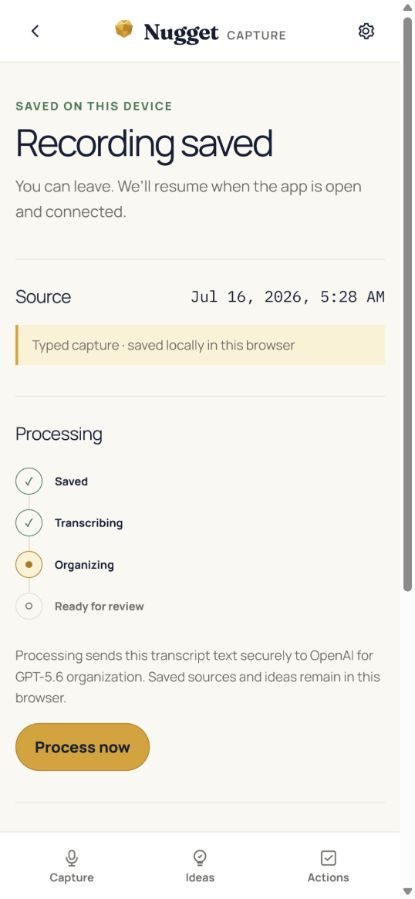
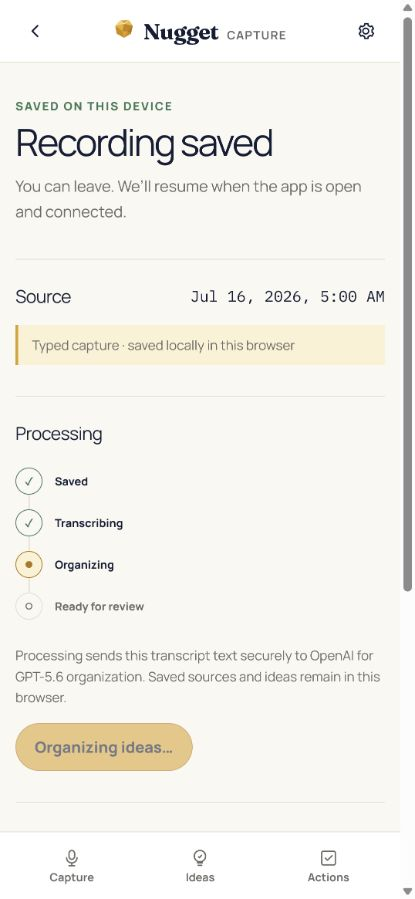
docs: prove synthetic mobile review flow

diff --git a/docs/qa/sprint-3-mobile-checklist.md b/docs/qa/sprint-3-mobile-checklist.md
@@ -24,6 +24,7 @@ Automated evidence does not substitute for a real-phone result where the checkli
 | Independent Task 5 review | Pass | Commits `af2c744`, `494d90e`, and `3b64ad9` were independently reviewed. The initial modal-retry finding was fixed in `3b64ad9`, and re-review approved the result. |
 | In-app mobile viewport | Pass | Sol verified the local app at 430 x 932 using `http://127.0.0.1:3011`. The Capture home put one-tap Record first and showed the zero-review queue link, typed fallback, recent captures, and persistent bottom navigation. `/ideas` showed the honest empty-library state with persistent navigation. Final screenshots were then recaptured from the production build server using `next start` at `http://127.0.0.1:3012`, without development controls. |
 | Synthetic typed save and reload | Pass | Sol saved a synthetic 369-character typed ramble. The app navigated to `/capture/47190cef-001c-46bf-835a-be162378c850`, displayed Transcript Version 1, the processing timeline, and the cloud disclosure. A full reload preserved the same capture and transcript, with no console errors observed. |
+| Synthetic multi-idea browser flow | Pass | On the production build at 430 x 932, a temporary local-only seed harness created fixed QA-prefixed records without live provider use. Sol verified a true `organizing` state, three draft ideas, independent edit persistence across Next/Previous, an exact source quote, discard-one/confirm-two, the completed review state, and two independent confirmed records in Ideas. The harness was removed before the final build and is not committed. |
 | Real phone and HTTPS preview | Blocked | No real phone connected to an HTTPS-capable deployed preview was available during the overnight run. Plain LAN HTTP is not sufficient evidence for mobile `getUserMedia`. |
 | Microphone authority | Blocked | Microphone acceptance requires explicit permission confirmation and a supported secure browser context. That confirmation was unavailable for this documentation pass. |
 | Live GPT/OpenAI processing | Blocked | No live provider run was performed for Sprint 3. Overnight API usage remains $0. Deterministic and mocked processing checks do not prove a live GPT-5.6 flow. |
@@ -53,9 +54,9 @@ Automated evidence does not substitute for a real-phone result where the checkli
 | Automatic processing after consent | Blocked | The consent and ordering UI is covered automatically, but no live OpenAI call was made. API usage remains $0. |
 | Manual Process now after consent | Blocked | Sol verified that Process now opened the explicit **Send for cloud processing?** dialog and that Cancel closed it without sending content. Sending after consent and completing a live provider run were not performed; API usage remains $0. |
 | App hidden during processing and resumed when visible | Not run | Automated visibility/resume listeners pass. A completed browser lifecycle observation has not yet been supplied. |
-| Multi-idea review and independent editing | Not run | Automated Task 5 tests pass for three candidates and edit persistence across next/back. Awaiting Sol's mobile browser observation. |
-| Source excerpt accuracy | Not run | Automated form tests preserve exact stored quotes and render transcript content as text. Awaiting comparison against a visible sample capture. |
-| Discard one idea and confirm two | Not run | Transactional discard and multi-confirmation paths pass automated tests. Awaiting the manual three-idea browser flow. |
+| Multi-idea review and independent editing | Pass | The synthetic production-browser flow rendered **3 ideas found**; an edited first title remained intact after Next and Previous navigation. |
+| Source excerpt accuracy | Pass | Expanding **View source excerpt** displayed the exact seeded transcript quote for the current explicit summary. |
+| Discard one idea and confirm two | Pass | The real discard modal removed the first draft, review advanced to **1 of 2**, and **Confirm all ready ideas (2)** completed with **2 ideas added to your library**. Ideas then listed the two independent confirmed records with category, summary, and source links. |
 | Repeated confirmation does not duplicate actions | Not run | Automated repository/service tests pass. Awaiting a manual visible Actions/library confirmation once the downstream surface is available. |
 | Keyboard focus and screen-reader labels | Not run | Automated tests cover control names, modal focus, and retry focus. No manual screen-reader or keyboard-only audit has been supplied. |
 | Reduced-motion state | Not run | The global reduced-motion CSS fallback exists. No browser emulation or physical-device observation has been supplied. |
@@ -75,20 +76,20 @@ Automated evidence does not substitute for a real-phone result where the checkli
 | Multiple ideas confirm independently; discards and failures preserve other work | Pass | Task 5 focused tests and transactional service tests pass; independent review approved the final recovery behavior. |
 | A real phone completes capture through confirmation | Blocked | No real phone on an HTTPS-capable preview was available overnight. This remains a Sprint 3 exit-gate blocker. |
 | Full `npm run check` passes | Pass | Sol reported 42 test files / 292 tests, typecheck, lint, and production build passing. |
-| Sprint 3 evidence row is complete | Pass | The ledger records verified automation, browser QA, two confirmed assets, two unavailable assets, and all remaining blockers without claiming the Sprint exit gate is fully satisfied. |
+| Sprint 3 evidence row is complete | Pass | The ledger records verified automation, browser QA, three confirmed assets, one unavailable asset, and all remaining blockers without claiming the Sprint exit gate is fully satisfied. |
 
 ## Screenshot evidence
 
 | Path | Evidence | Status |
 |---|---|---|
[3 lines of base64/hex data omitted]
 | `docs/hackathon/evidence/sprint-3/capture-recording.png` | Not produced. Active microphone recording requires explicit permission acceptance and a real phone/HTTPS-capable preview. | Blocked |
-| `docs/hackathon/evidence/sprint-3/three-idea-confirmation.png` | Not produced. The live GPT/evaluation run was deferred under the overnight cost ceiling; API usage remains $0. | Blocked |
[1 lines of base64/hex data omitted]
 
 ## Open verification work
 
 1. Run the microphone-denied and 30-second Stop & save/refresh/playback flow on a real phone using an HTTPS-capable preview, then produce `capture-recording.png`.
-2. Run one authorized live transcription and GPT-5.6 organization flow, recording actual API usage separately, then produce `three-idea-confirmation.png` from synthetic content.
+2. Run one authorized live transcription and GPT-5.6 organization flow and record actual API usage separately; local three-idea UI evidence is now complete, but live-model quality remains an MVP validation gap.
 3. Exercise visibility resume, reduced motion, keyboard-only navigation, and a screen reader in a real browser.
 4. Re-run the full gate if additional code changes land after the evidence pass.

diff --git a/docs/hackathon/BUILD_WEEK_EVIDENCE.md b/docs/hackathon/BUILD_WEEK_EVIDENCE.md
@@ -5,7 +5,7 @@
 | 0 | 2026-07-15 | `187e738`, `c3b7273`, `dbdf33c`, `afc37b3`, and `a56d0b5` | Continuous overnight Codex goal: implement and verify the Nugget MVP sprint-by-sprint through Terra | `npm run check` — typecheck and lint passed; 23 test files / 49 tests passed; Next.js production build passed | Not required for the CI baseline | CI runs `npm ci` and `npm run check` for pull requests and pushes to `main` or `codex/mvp-overnight-2026-07-15` |
[1 lines of base64/hex data omitted]
 | 2 | 2026-07-16 | `f35c73c`, `a12e98e`, `f4650bd`, `a40c083`, `5be9d5c`, `40856ef`, `556b621`, `f3ba1d8`, `dca5a5d`, and the Task 7 commit containing this row | Continuous overnight Codex goal implemented through the project-scoped Terra worker; no session ID invented | Deterministic eval: `npx vitest run src/lib/evals/scoring.test.ts` passed 1 file / 10 tests. Full `npm run check`: typecheck and lint passed; 33 non-live files / 216 tests passed; Next.js production build passed. Live preflight: `npm run eval:live` without `OPENAI_API_KEY` failed before provider-client creation with the required safe configuration message. Production defaults and eval metadata are model `gpt-5.6`, reasoning `medium`, prompts `segment-v1` / `organize-v1`, and schemas `segmentation-v1` / `organization-v1`. | Not produced: the cost-deferred live run generated neither a multi-idea payload screenshot nor `docs/evals/latest.json` | Deterministic harness is verified, but no live score is claimed. The 69,600-token maximum output budget alone is $2.088 at the supplied $30/M output rate, before input, so the run was not authorized under the approximately $2 overnight ceiling. The live-evaluation score and screenshot exit-gate items remain open. |
[2 lines of base64/hex data omitted]
 | 4 |  |  |  |  |  |  |
 | 5 |  |  |  |  |  |  |
 | 6 |  |  |  |  |  |  |